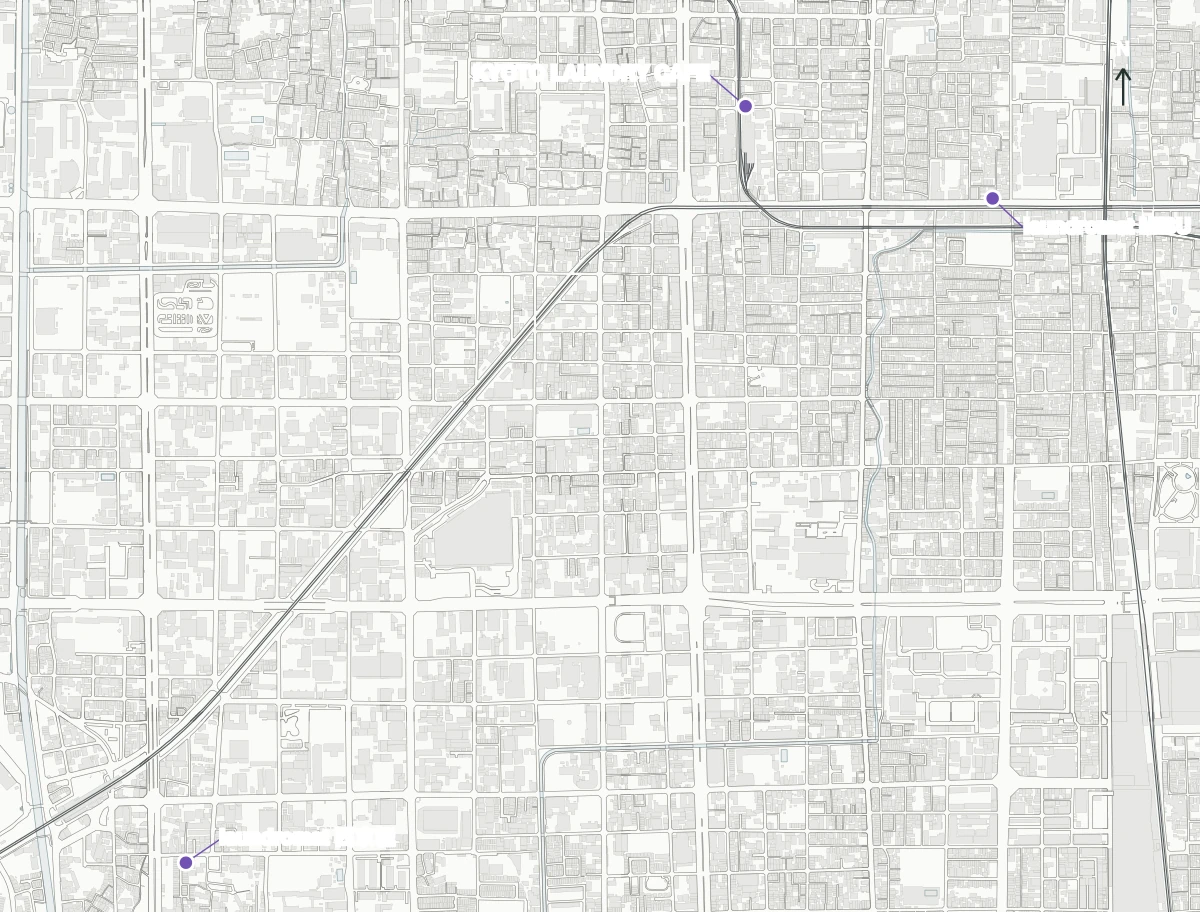
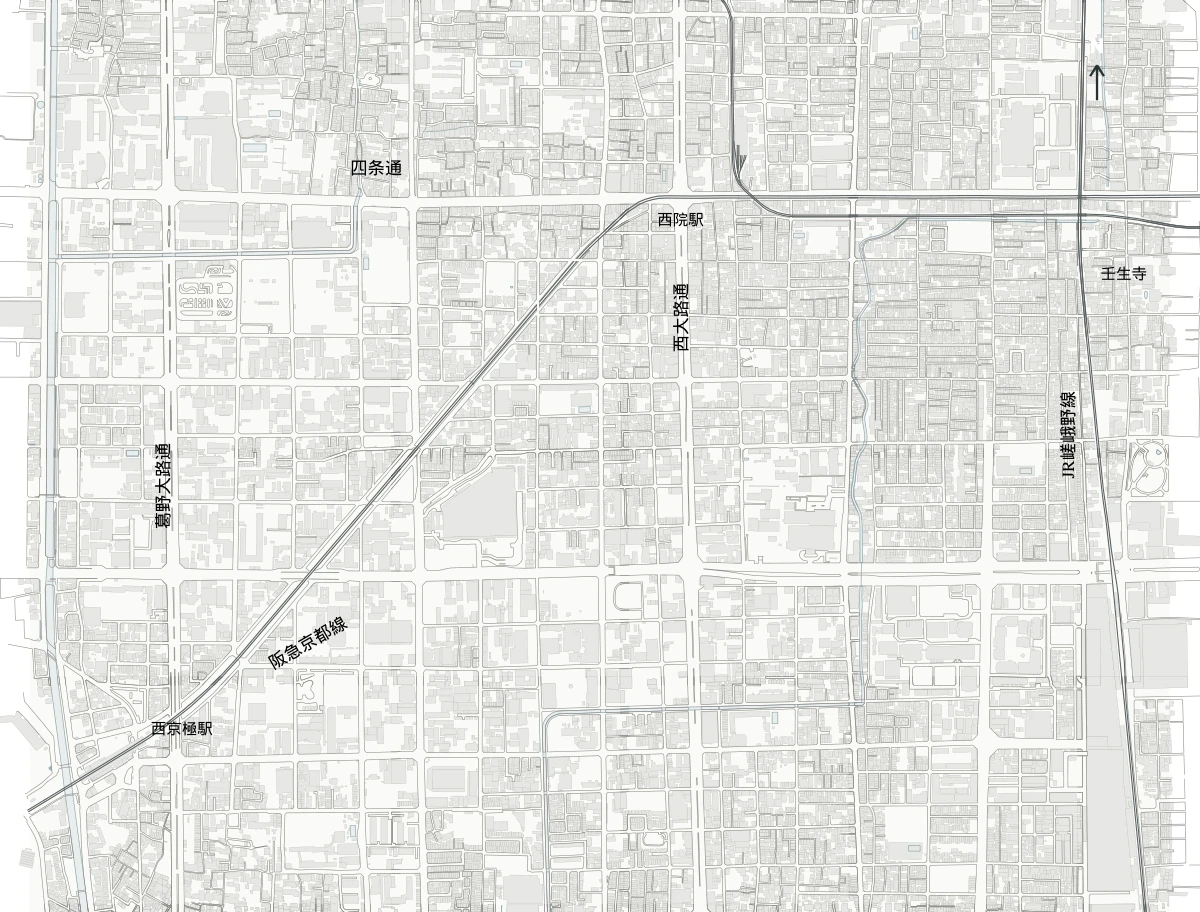
開催店舗地図と案内を改善

diff --git a/laundry-store.html b/laundry-store.html
@@ -6,7 +6,7 @@
   <meta name="description" content="このランドリーの周辺のまちにまつわる記憶をもとにつくった戯曲や朗読を、洗濯や乾燥を待ちながら楽しめます。">
   <title>店舗｜ランドリーシアター</title>
   <link rel="stylesheet" href="laundry.css?v=20261101-1">
-  <link rel="stylesheet" href="laundry-poster.css?v=20261107-8">
+  <link rel="stylesheet" href="laundry-poster.css?v=20261107-9">
 </head>
 <body class="store-page poster-store-page">
   <header class="site-header">
@@ -80,19 +80,17 @@
     <div class="store-help-content">
       <h2 id="storeHelpTitle">ランドリーシアターについて<small lang="en">About Laundry Theater</small></h2>
       <div id="storeStart"><p class="store-start-date">11/7（土）〜</p><p class="translation" lang="en">From Nov 7 (Sat), 2026</p></div>
-      <p>このランドリーの周辺のまちにまつわる記憶をもとにつくった戯曲や朗読を、洗濯や乾燥を待ちながら楽しめます。</p>
-      <p class="translation" lang="en">Enjoy plays and audio readings based on memories of the neighborhood while you wait for washing or drying.</p>
-      <p>店の外からも投稿できます。</p>
-      <p class="translation" lang="en">You can post from anywhere.</p>
-      <p>投稿された情報を手がかりに、ワークショップで戯曲をつくり、再びサイトに反映します。</p>
-      <p class="translation" lang="en">We use submitted material to create plays in workshops and share the completed works on this site.</p>
+      <section class="store-help-section"><h3>この企画について<small lang="en">About the project</small></h3><p>京都市内のいくつかのコインランドリーで、周辺のまちの写真や記憶をもとにつくった短い戯曲や朗読を、洗濯や乾燥を待ちながら楽しむプロジェクトです。まだ知らない誰かの経験を通して、いつものまちを違う視点から想像します。</p><p class="translation" lang="en">At laundries across Kyoto, read short plays and listen to audio readings created from local photographs and memories while you wait. Imagine familiar places through someone else’s experience.</p></section>
+      <section class="store-help-section"><h3>読む・聴く<small lang="en">Read and listen</small></h3><p>地図の番号や一覧から気になる場所を選ぶと、その場所から生まれた戯曲の本文と朗読音声を開けます。作品画面の「前の作品」「次の作品」から、続けて巡ることもできます。</p><p class="translation" lang="en">Choose a numbered place on the map or in the list to open the play text and audio reading created from that location. Use Previous and Next to continue through the works.</p></section>
+      <section class="store-help-section"><h3>投稿する<small lang="en">Contribute</small></h3><p>周辺のまちで見つけた写真、記憶、感じたことや、作品へのコメントを投稿できます。店内だけでなく、店の外からも投稿できます。投稿された情報はワークショップで戯曲の素材となり、完成した作品と朗読音声を、場所の位置情報や写真とともにこのサイトで共有します。</p><p class="translation" lang="en">Share local photographs, memories, impressions, or comments on the works—from inside or outside the laundry. Contributions become material for playwriting workshops; completed works and audio readings are then shared here with location information and photographs.</p></section>
+      <section class="store-help-section"><h3>ここでいう「戯曲」<small lang="en">What we mean by “play”</small></h3><p>戯曲は、演劇の上演のために書かれた脚本です。本企画では、短いエッセイや詩的な表現も含め、読む・聴くだけでも楽しめる作品を戯曲として扱います。</p><p class="translation" lang="en">A play is a script written for performance. Here, the term also includes short essays and poetic writing: works made to be enjoyed simply by reading or listening.</p></section>
       <div id="storeDrinkOffer" class="drink-offer" hidden><p>投稿後に表示される画面をカフェの店員に見せると、24時間以内はドリンクが50円引きになります。</p><p class="translation" lang="en">Show the screen displayed after posting to café staff to receive ¥50 off a drink within 24 hours.</p></div>
       <div class="store-audio-note"><p>音声はイヤホン、または周囲の方の迷惑にならない音量でお楽しみください。</p><p class="translation" lang="en">Please use headphones or keep the volume low enough not to disturb others.</p></div>
+      <section class="store-help-section store-map-source"><h3>地図について<small lang="en">About the maps</small></h3><p>店舗周辺図と開催店舗地図は、国土地理院「地理院地図Vector提供実験」のベクトルタイル <span lang="en">experimental_bvmap</span>（データソース：数値地図（国土基本情報）―地図情報 等）から、建物・道路・鉄道・水域等を抽出・加工し、店舗位置、作品位置、主要な地名・路線名を追記しています。</p><p class="translation" lang="en">The maps use GSI Maps Vector experimental tiles, <span>experimental_bvmap</span> (source data includes Digital Map [National Land Basic Information] – Map Information). Building, road, railway, and water features were extracted and restyled; laundry locations, work locations, and selected place and line names were added.</p><a href="https://maps.gsi.go.jp/development/vt.html" target="_blank" rel="noopener">地理院地図Vectorとベクトルタイル提供実験 <span aria-hidden="true">↗</span></a></section>
       <nav class="store-help-links" aria-label="関連リンク">
         <a href="laundry.html#stores"><span>開催店舗一覧</span><small lang="en">Theater locations</small></a>
         <a href="laundry.html#workshop"><span>戯曲をつくるワークショップ</span><small lang="en">Playwriting workshop</small></a>
         <a href="index.html"><span>企画・運営　プラントショップ</span><small lang="en">Organized by Plantshop</small></a>
-        <a href="https://maps.gsi.go.jp/help/use.html" target="_blank" rel="noopener"><span>地図データ　国土地理院</span><small lang="en">Map data: Geospatial Information Authority of Japan</small></a>
       </nav>
     </div>
   </dialog>
@@ -143,7 +141,7 @@
     </form>
   </dialog>
 
-  <script src="data/laundry-waiting-room.js?v=20261107-7"></script>
+  <script src="data/laundry-waiting-room.js?v=20261107-9"></script>
   <script src="data/laundry-area-maps.js?v=20261107-7"></script>
   <script src="laundry-area-maps.js?v=20261107-7"></script>
   <script src="laundry-store.js?v=20261107-8"></script>

diff --git a/laundry.html b/laundry.html
@@ -7,7 +7,7 @@
   <title>ランドリーシアター｜プラントショップ</title>
   <link rel="canonical" href="https://www.plantshop.work/laundry.html">
   <link rel="stylesheet" href="laundry.css?v=20261101-1">
-  <link rel="stylesheet" href="laundry-poster.css?v=20261107-8">
+  <link rel="stylesheet" href="laundry-poster.css?v=20261107-9">
 </head>
 <body class="poster-page">
   <header class="poster-header">
@@ -27,7 +27,7 @@
         <p>京都市内のいくつかのコインランドリーで、その周辺のまちにまつわる記憶をもとにつくった戯曲や朗読を、洗濯や乾燥を待ちながら楽しめます。</p>
         <p>まだ知らない誰かの経験を通して、いつものまちを違う視点から想像してみませんか。</p>
         <p class="translation" lang="en">At laundries across Kyoto, read short plays and listen to audio readings based on memories of the surrounding area while you wait. Imagine familiar places through someone else’s experience.</p>
-        <div id="stores" class="poster-stores"><h3>ランドリーシアターの開催店舗はこちら</h3><p class="translation" lang="en">Theater locations</p><img class="project-stores-map" src="assets/laundry/project-stores-map.webp?v=20261107-1" alt="京都市内にあるランドリーシアター3店舗の位置関係を示す地図" width="1200" height="912"><div id="storeList" class="store-list"></div></div>
+        <div id="stores" class="poster-stores"><h3>ランドリーシアターの開催店舗はこちら</h3><p class="translation" lang="en">Theater locations</p><div class="project-stores-map-frame"><img class="project-stores-map" src="assets/laundry/project-stores-map.webp?v=20261107-3" alt="京都市内にあるランドリーシアター3店舗の位置関係を示す地図" width="1200" height="960"><a class="project-store-marker is-left" href="laundry-store.html?store=kyoto-laundry-cafe" style="--x:62.13%;--y:11.07%" aria-label="KYOTO LAUNDRY CAFEの店舗ページへ"><span>KYOTO LAUNDRY CAFE</span></a><a class="project-store-marker is-left" href="laundry-store.html?store=laundromat-mibu" style="--x:82.72%;--y:20.67%" aria-label="laundromat MIBUの店舗ページへ"><span>laundromat MIBU</span></a><a class="project-store-marker is-above" href="laundry-store.html?store=laundromat-nishikyogoku" style="--x:15.49%;--y:89.86%" aria-label="laundromat 西京極の店舗ページへ"><span>laundromat 西京極</span></a></div><p class="project-map-hint">店舗名を押すと、各店舗の作品ページを開きます。 <span lang="en">Select a laundry name to open its page.</span></p><div id="storeList" class="store-list"></div></div>
         <h3 class="theater-actions-title">作品を読む・聴く／投稿する</h3>
         <ol class="poster-steps theater-steps">
           <li><div><img src="assets/laundry/theater-1.svg" alt="" width="46" height="46" loading="lazy"><p>店内のスタンドやカードのQRから、その店舗の作品サイトを開く。</p><p class="translation" lang="en">Scan the QR code on a stand or card to open this laundry’s site.</p></div></li>
@@ -52,8 +52,8 @@
       </section>
     </div>
   </main>
-  <footer class="poster-footer"><a class="project-site-link" href="laundry.html#stores"><span>プロジェクトサイト</span><small>ランドリーシアターの開催店舗はこちら</small><small lang="en">Project website / Theater locations</small></a><a class="organizer-credit" href="index.html"><span>企画・運営</span><img src="assets/laundry/plantshop-logo.png" alt="プラントショップ" width="120" height="39" loading="lazy"></a><a href="https://maps.gsi.go.jp/help/use.html" class="map-credit">地図データ：国土地理院</a></footer>
-  <script src="data/laundry-waiting-room.js?v=20261107-7"></script>
+  <footer class="poster-footer"><a class="project-site-link" href="laundry.html#stores"><span>プロジェクトサイト</span><small>ランドリーシアターの開催店舗はこちら</small><small lang="en">Project website / Theater locations</small></a><a class="organizer-credit" href="index.html"><span>企画・運営</span><img src="assets/laundry/plantshop-logo.png" alt="プラントショップ" width="120" height="39" loading="lazy"></a><a href="https://maps.gsi.go.jp/development/vt.html" class="map-credit">地図：地理院地図Vector提供実験</a></footer>
+  <script src="data/laundry-waiting-room.js?v=20261107-9"></script>
   <script src="laundry.js?v=20261107-2"></script>
 </body>
 </html>

diff --git a/laundry-poster.css b/laundry-poster.css
@@ -50,7 +50,18 @@
 .poster-workshop .poster-section-title { color: #7251b5; border-color: #7251b5; }
 .poster-stores { margin: 32px 0 36px; }
 .poster-stores h3 { font-size: 15px; font-weight: 500; color: #176b60; margin: 0 0 10px; }
-.project-stores-map { display: block; width: 100%; height: auto; margin: 18px 0 12px; border: 1px solid #c7dbd2; background: #fafaf7; }
+.project-stores-map-frame { position: relative; margin: 18px 0 12px; }
+.project-stores-map { display: block; width: 100%; height: auto; border: 1px solid #c7dbd2; background: #fafaf7; }
+.project-store-marker { position: absolute; left: var(--x); top: var(--y); width: 42px; height: 42px; transform: translate(-50%, -50%); z-index: 2; }
+.project-store-marker::before { content: ""; position: absolute; inset: 11px; border: 3px solid #fff; border-radius: 50%; background: #7251b5; box-shadow: 0 1px 5px rgba(39,36,61,.28); }
+.project-store-marker span { position: absolute; left: 37px; top: 50%; min-width: max-content; padding: 6px 9px; transform: translateY(-50%); border: 1px solid #7251b5; border-radius: 3px; background: rgba(255,255,255,.94); color: #5b3d9d; font-size: 11px; font-weight: 600; line-height: 1.3; box-shadow: 0 3px 12px rgba(39,36,61,.16); }
+.project-store-marker.is-left span { left: auto; right: 37px; }
+.project-store-marker.is-below span { left: 50%; top: 37px; transform: translateX(-50%); }
+.project-store-marker.is-above span { left: 50%; top: auto; bottom: 37px; transform: translateX(-50%); }
+.project-store-marker:hover span, .project-store-marker:focus-visible span { background: #7251b5; color: #fff; }
+.project-store-marker:focus-visible { outline: 2px solid #7251b5; outline-offset: 3px; border-radius: 50%; }
+.project-map-hint { margin: 0 0 18px; color: #64716b; font-size: 11px; line-height: 1.65; }
+.project-map-hint span { display: block; font-family: Arial, sans-serif; }
 .poster-stores .store-list { gap: 0; }
 .poster-stores .store-link-card { border: 0; border-top: 1px solid #c7dbd2; padding: 20px 4px; grid-template-columns: 35px minmax(0,1fr) 24px; gap: 15px; background: transparent; }
 .poster-stores .store-link-card:last-child { border-bottom: 1px solid #c7dbd2; }
@@ -374,7 +385,7 @@
 }
 .store-help-button:hover,
 .store-help-button:focus-visible { background: #176b60; outline: 3px solid #fff; }
-.store-help-content { display: grid; gap: 16px; padding: clamp(36px, 7vw, 64px); }
+.store-help-content { display: grid; gap: 22px; padding: clamp(36px, 7vw, 64px); }
 .store-help-content h2 { margin: 0; color: #176b60; font-size: clamp(24px, 5vw, 36px); font-weight: 500; }
 .store-help-content h2 small { display: block; margin-top: 6px; color: var(--muted); font: 400 12px/1.4 Arial, sans-serif; }
 .store-help-content p { margin: 0; }
@@ -382,6 +393,12 @@
 .store-help-content .drink-offer p + p,
 .store-help-content .store-audio-note p + p { margin-top: 6px; }
 .store-help-content .store-audio-note { padding: 14px 16px; border-left: 2px solid #7251b5; background: #f2eef7; }
+.store-help-section { display: grid; gap: 7px; }
+.store-help-section h3 { margin: 0 0 3px; color: #176b60; font-size: 15px; font-weight: 600; }
+.store-help-section h3 small { display: block; margin-top: 2px; color: var(--muted); font: 11px/1.4 Arial, sans-serif; }
+.store-help-section .translation { margin: 0; color: var(--muted); font: 12px/1.65 Arial, sans-serif; }
+.store-map-source { padding-top: 18px; border-top: 1px solid #c7dbd2; font-size: 12px; }
+.store-map-source a { color: #7251b5; text-decoration: underline; text-underline-offset: 3px; }
 .store-help-links { display: grid; margin-top: 8px; border-top: 1px solid #c7dbd2; }
 .store-help-links a { display: grid; gap: 3px; padding: 14px 0; border-bottom: 1px solid #c7dbd2; color: #176b60; }
 .store-help-links small { color: var(--muted); font: 11px/1.4 Arial, sans-serif; }

diff --git a/data/laundry-waiting-room.js b/data/laundry-waiting-room.js
@@ -34,7 +34,7 @@ window.LAUNDRY_WAITING_ROOM_DATA = {
       "index": "03",
       "name": "laundromat MIBU",
       "area": "",
-      "description": "",
+      "description": "11/7（土）〜",
       "mapReady": true,
       "center": { "lat": 35.0037354, "lng": 135.7389614 },
       "mapSpanMeters": 1050,
